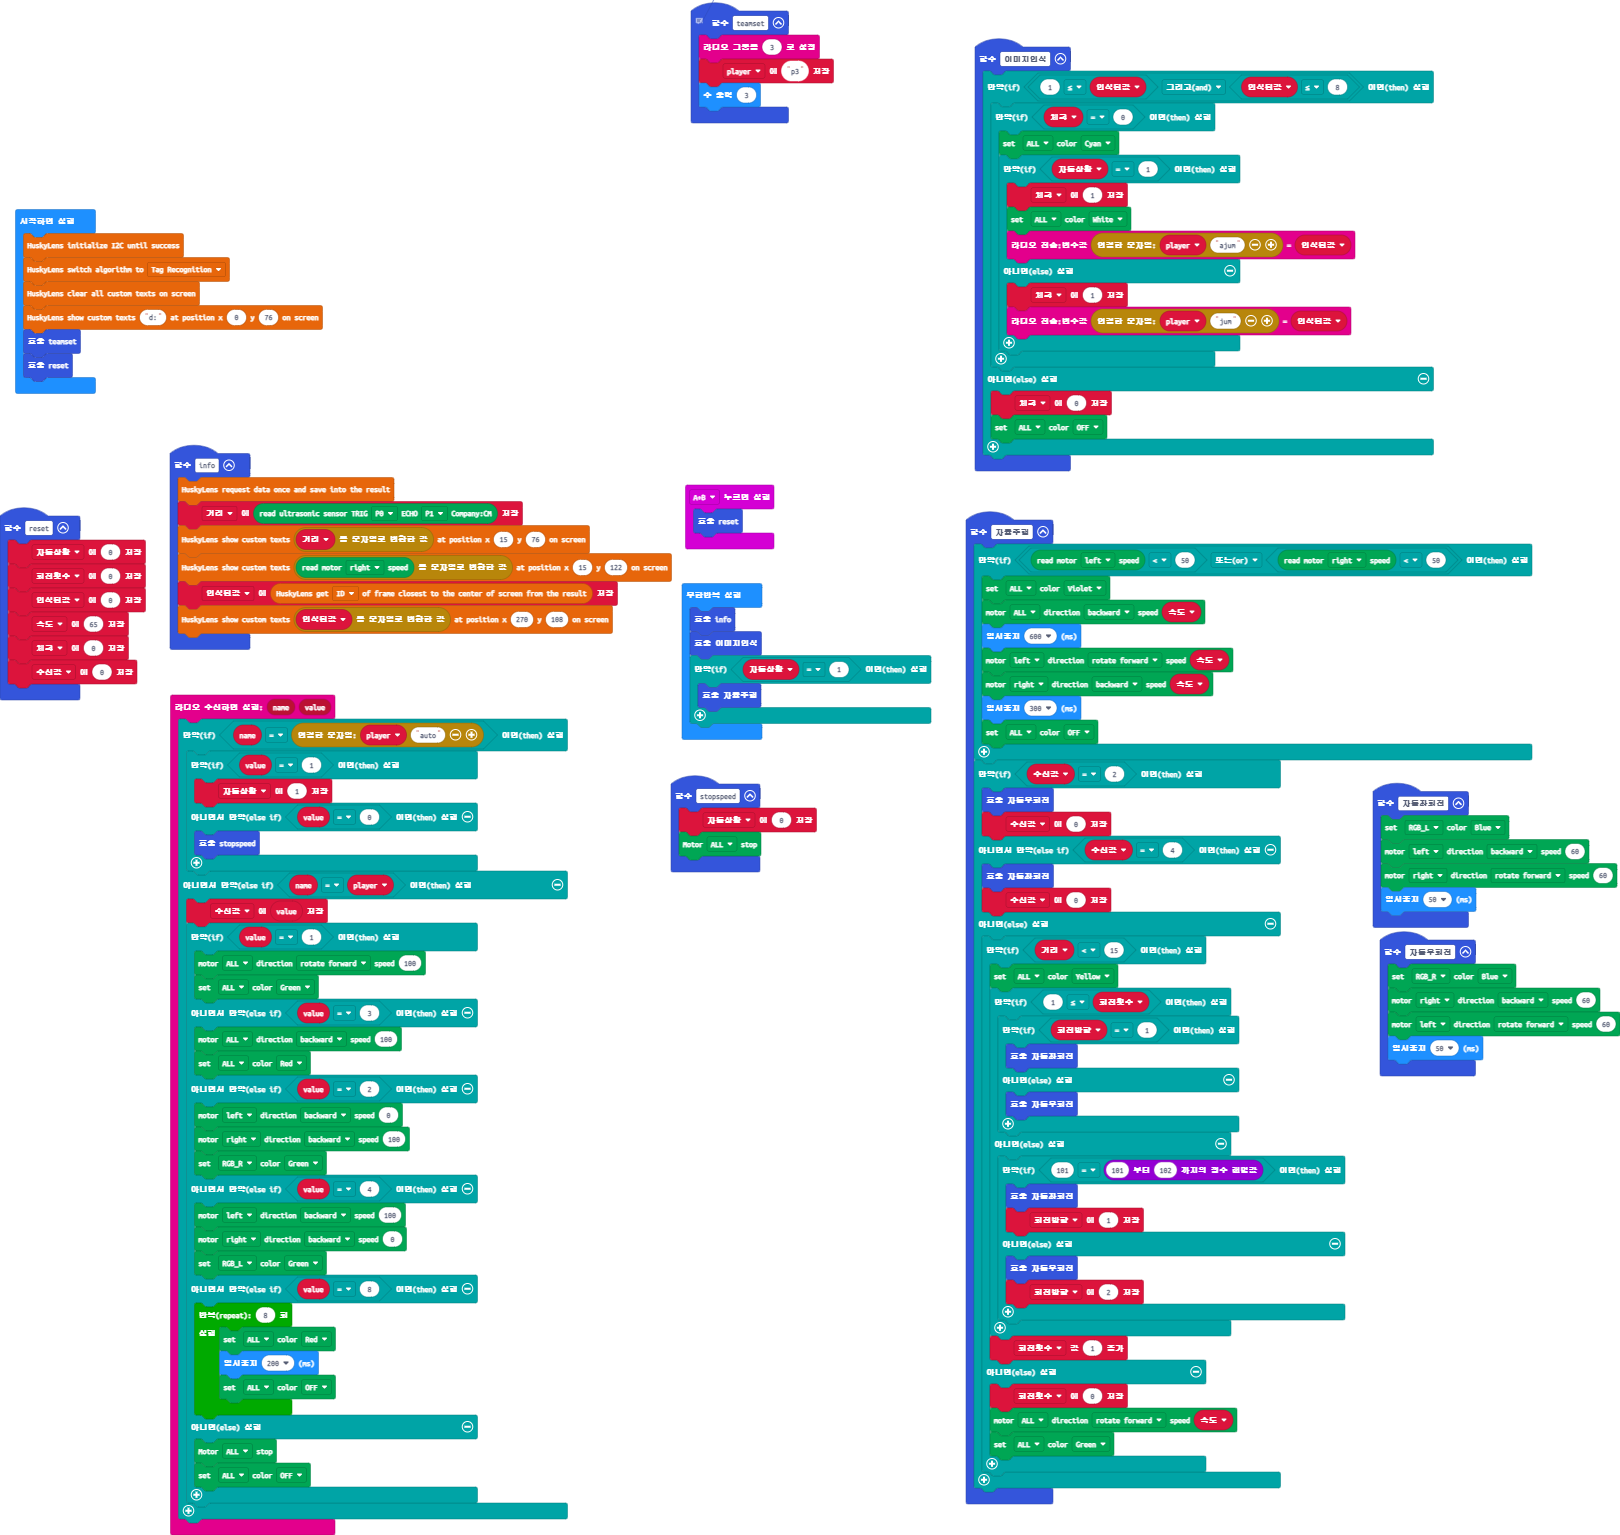
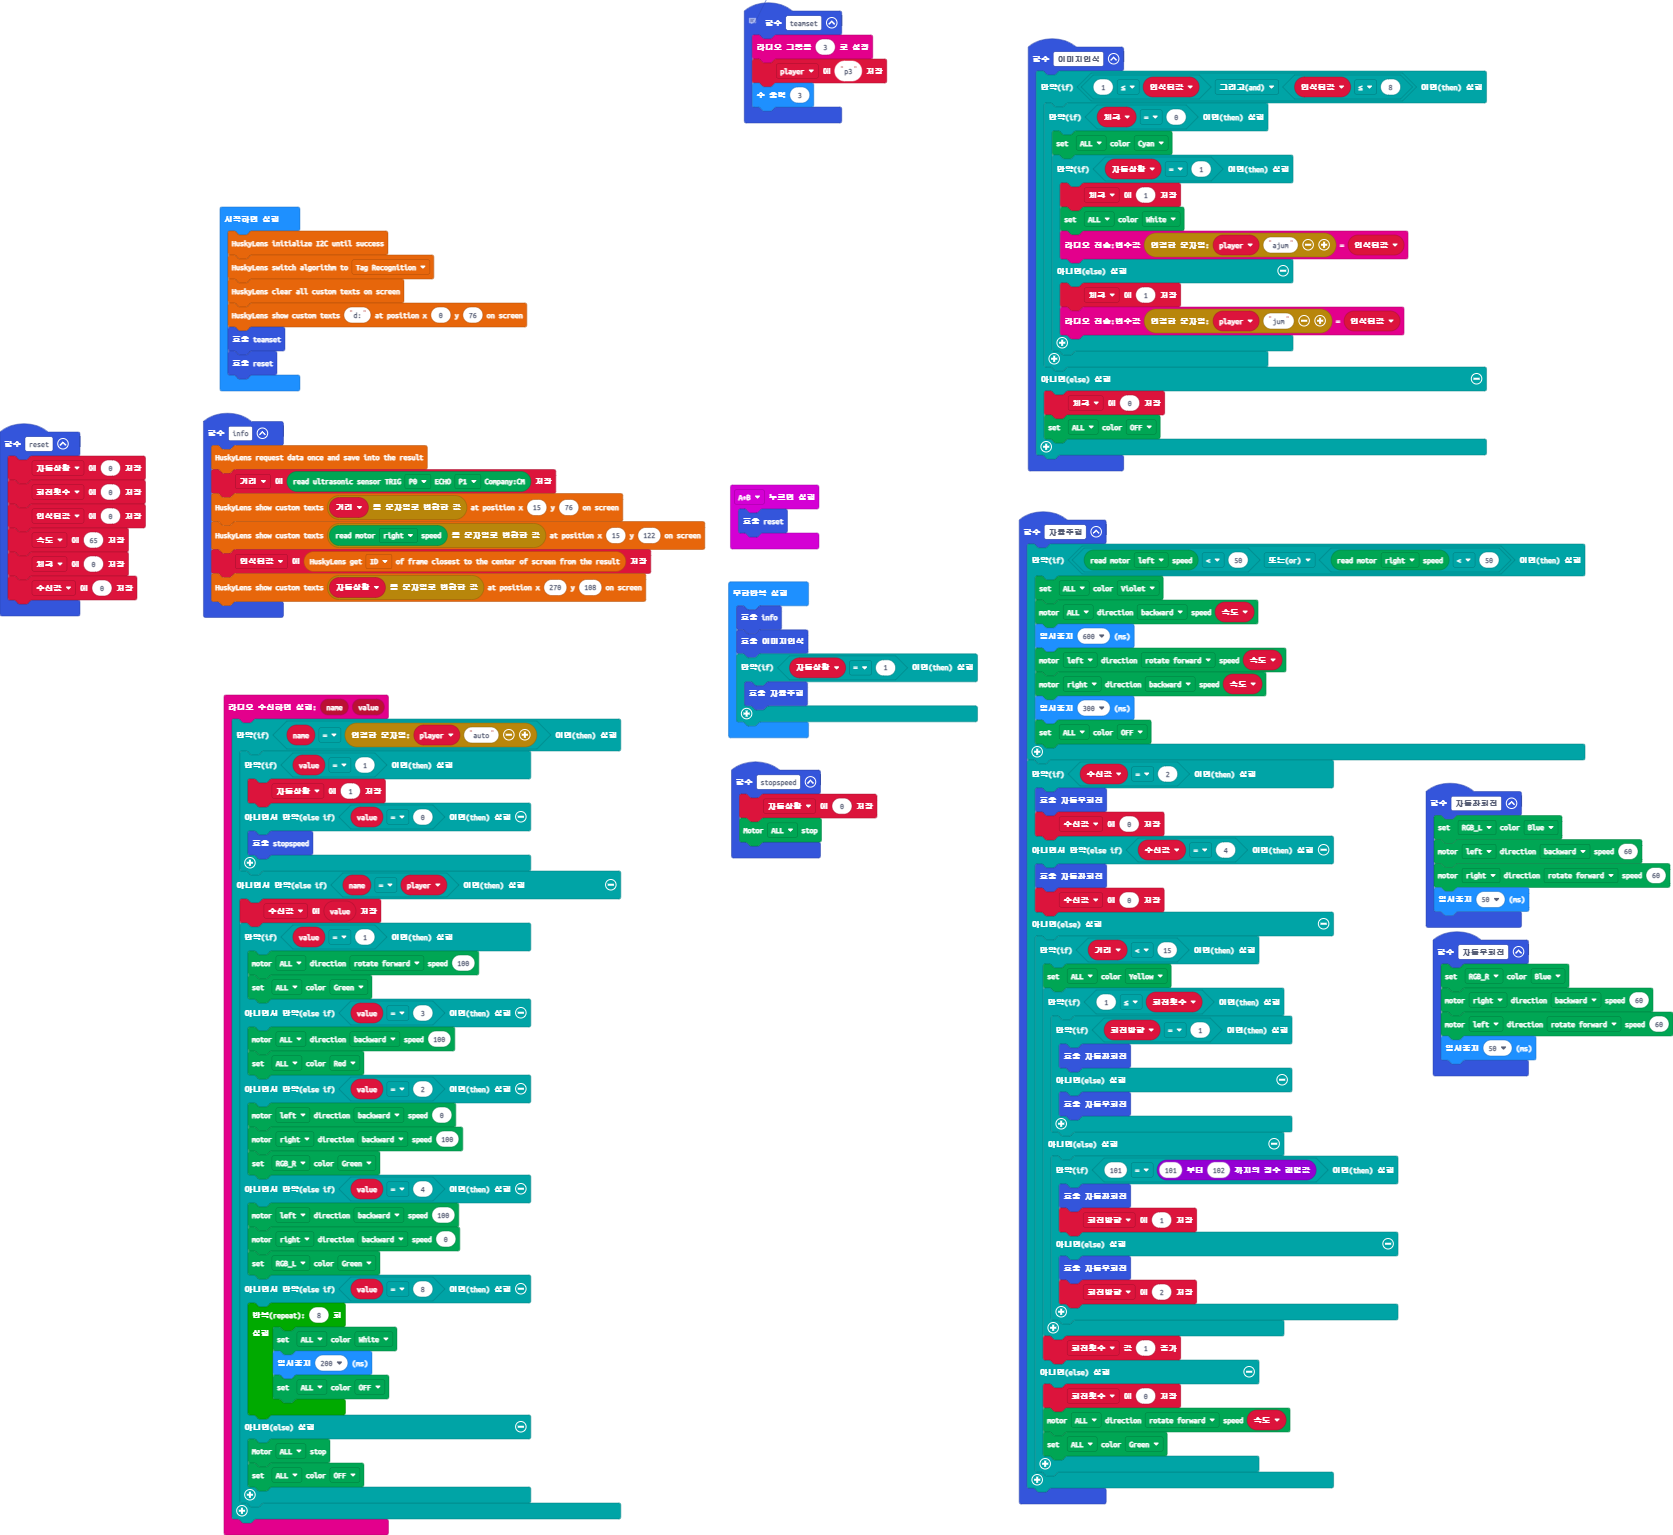
오토일 때 모니터에 표시하기 몬스터를 잡았을 때 흰색 빛 나오도록하기

diff --git a/main.ts b/main.ts
@@ -38,7 +38,7 @@ function info () {
     huskylens.writeOSD(convertToText(거리), 15, 76)
     huskylens.writeOSD(convertToText(DFRobotMaqueenPlus.readSpeed(Motors1.M2)), 15, 122)
     인식된값 = huskylens.readBox_s(Content3.ID)
-    huskylens.writeOSD(convertToText(인식된값), 270, 108)
+    huskylens.writeOSD(convertToText(자동상황), 270, 108)
 }
 input.onButtonPressed(Button.AB, function () {
     reset()
@@ -110,7 +110,7 @@ radio.onReceivedValue(function (name, value) {
             DFRobotMaqueenPlus.setRGBLight(RGBLight.RGBL, Color.GREEN)
         } else if (value == 8) {
             for (let index = 0; index < 8; index++) {
-                DFRobotMaqueenPlus.setRGBLight(RGBLight.RGBA, Color.RED)
+                DFRobotMaqueenPlus.setRGBLight(RGBLight.RGBA, Color.WHITH)
                 basic.pause(200)
                 DFRobotMaqueenPlus.setRGBLight(RGBLight.RGBA, Color.OFF)
             }
